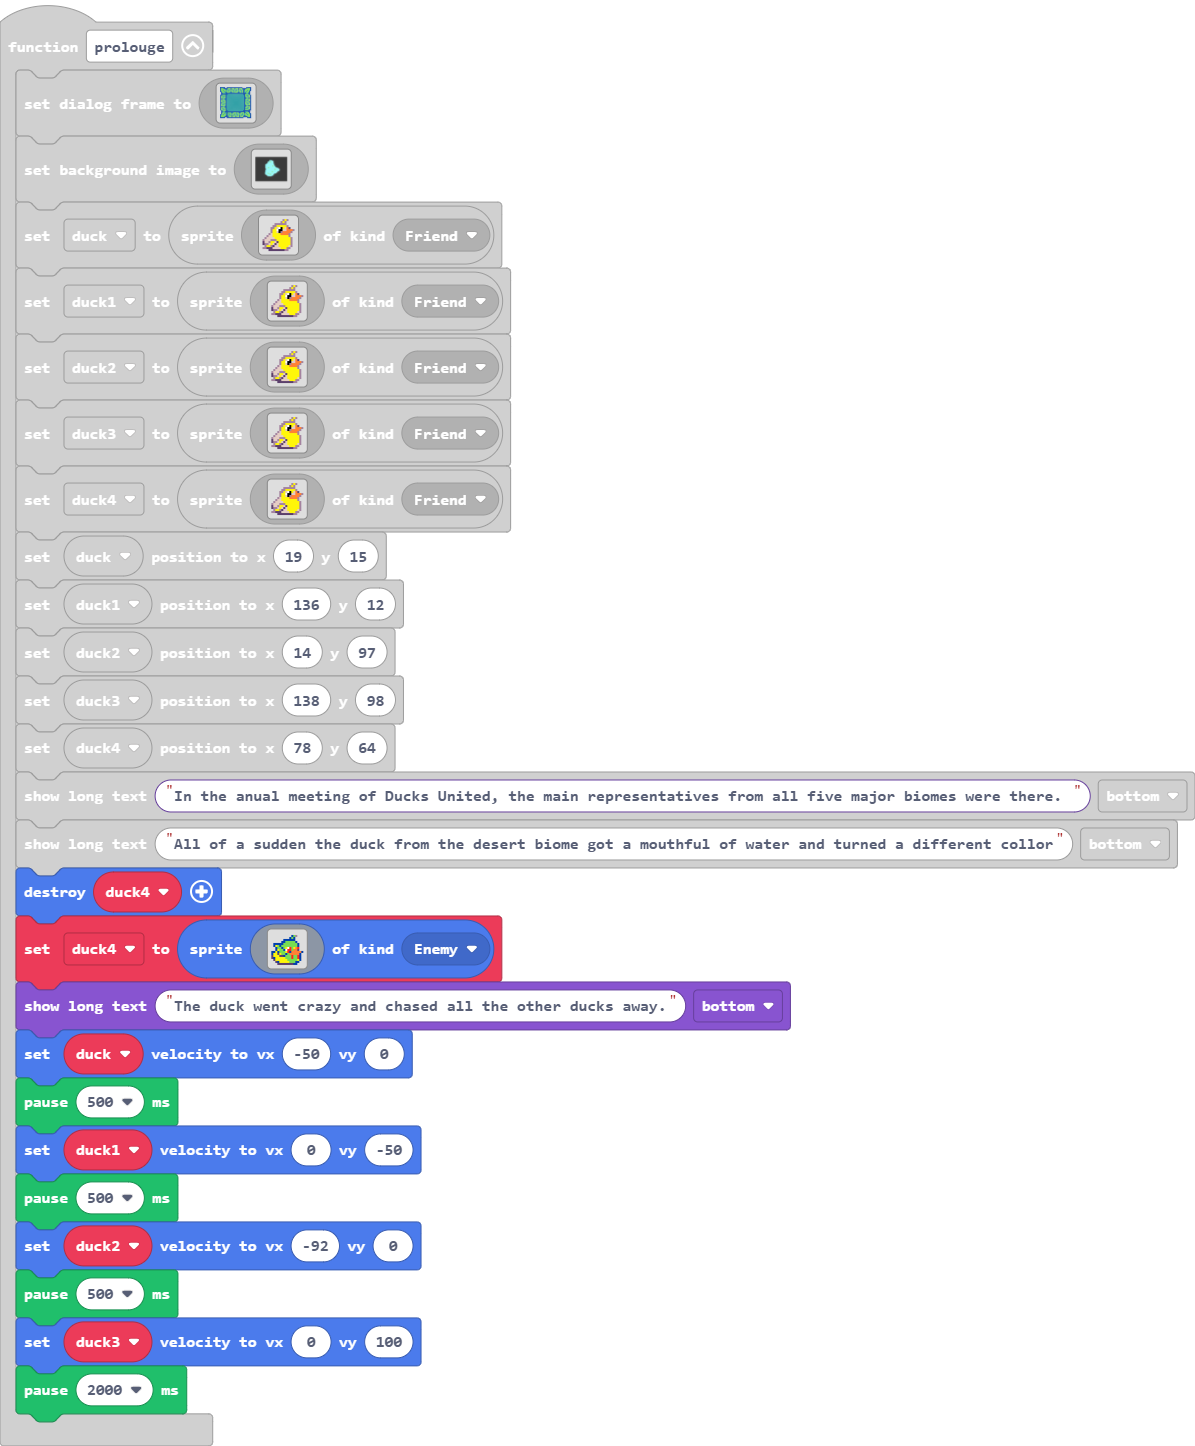
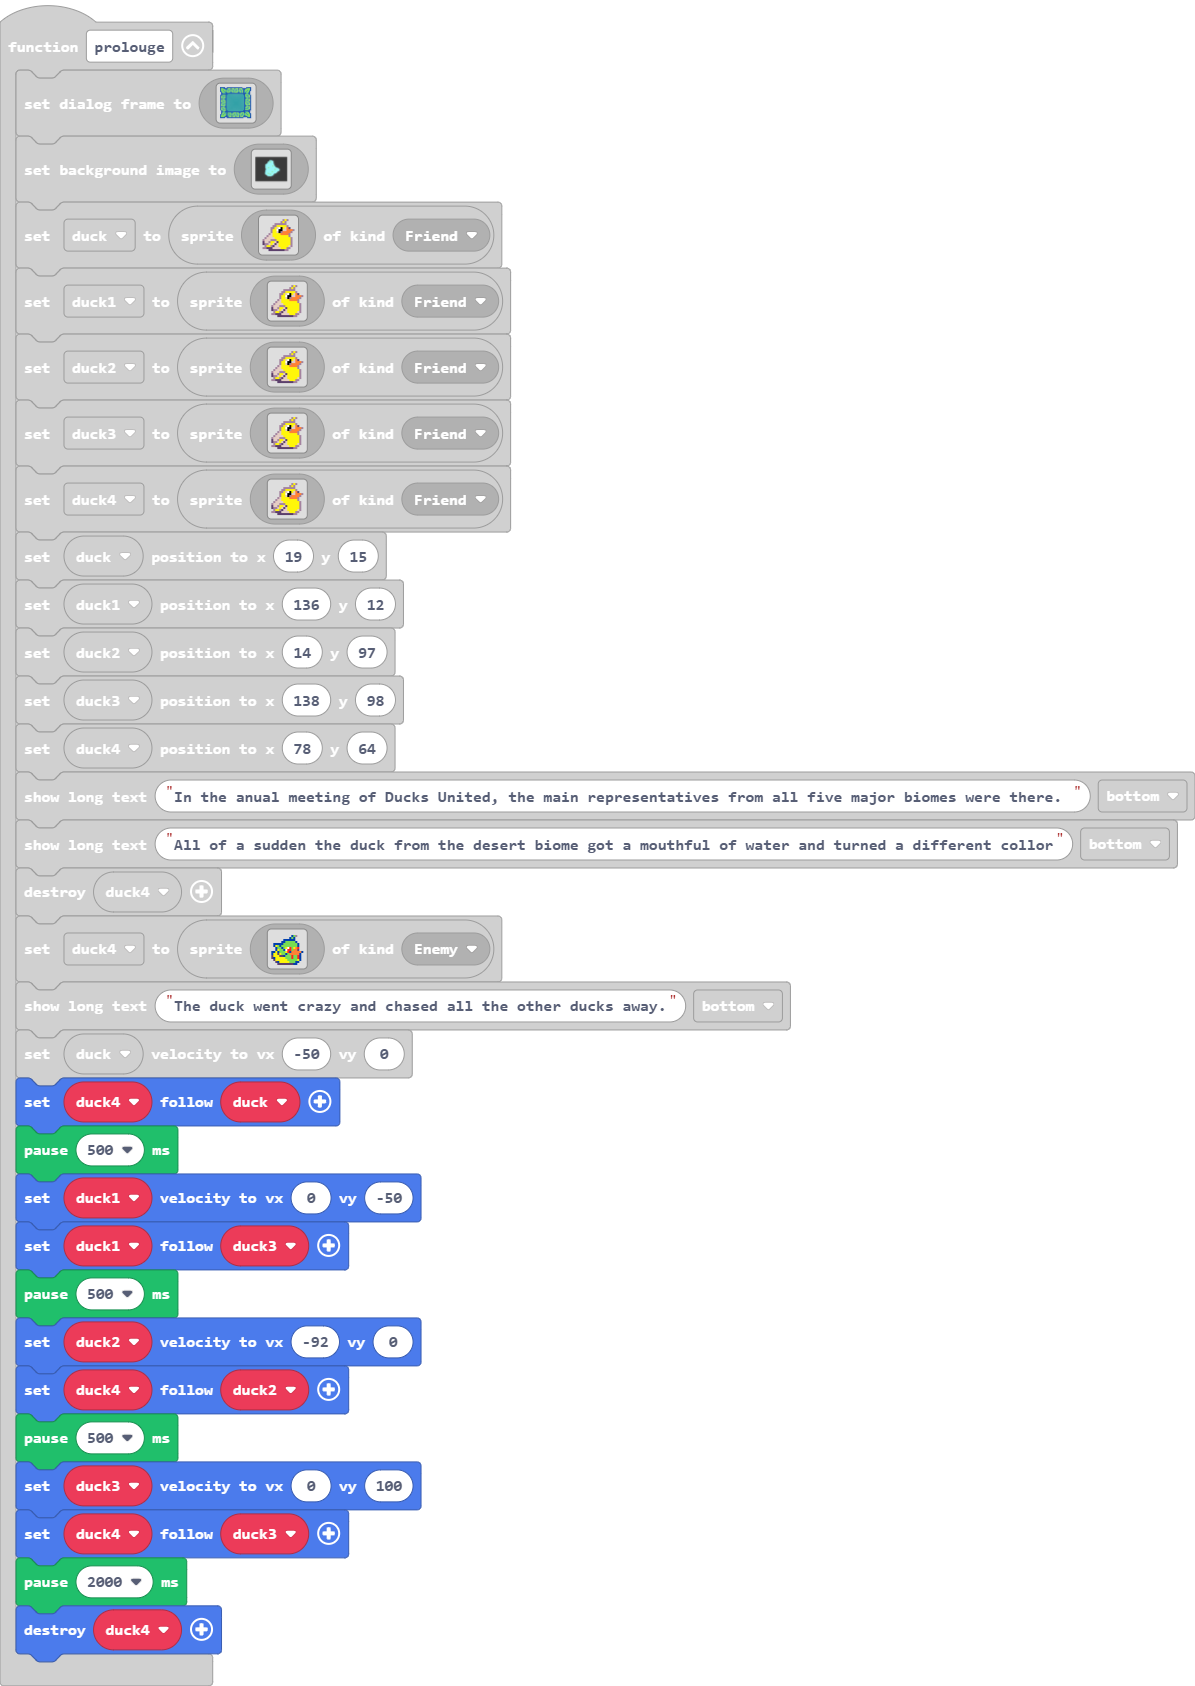
Update main.blocks, main.ts

Changed region(s): [[0.0, 0.0, 1.0, 0.9959]]

diff --git a/main.ts b/main.ts
@@ -432,13 +432,18 @@ function prolouge () {
         `, SpriteKind.Enemy)
     game.showLongText("The duck went crazy and chased all the other ducks away.", DialogLayout.Bottom)
     duck.setVelocity(-50, 0)
+    duck4.follow(duck)
     pause(500)
     duck1.setVelocity(0, -50)
+    duck1.follow(duck3)
     pause(500)
     duck2.setVelocity(-92, 0)
+    duck4.follow(duck2)
     pause(500)
     duck3.setVelocity(0, 100)
+    duck4.follow(duck3)
     pause(2000)
+    sprites.destroy(duck4)
 }
 function Level_1 () {
     tiles.setCurrentTilemap(tilemap`level4`)
